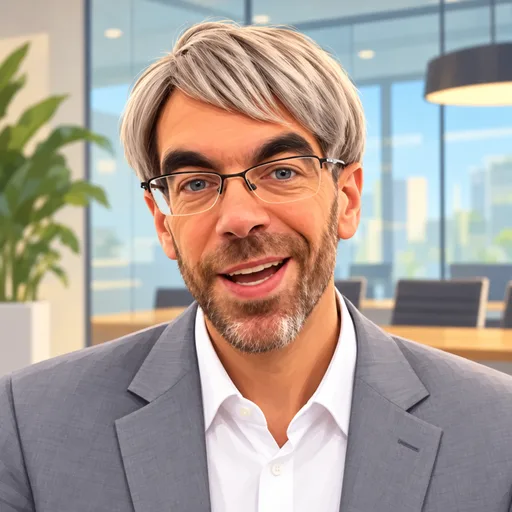
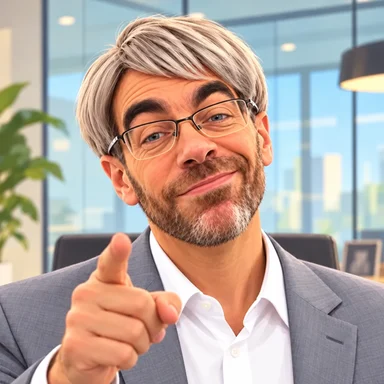
לא זו השאלה (draft): answers as straight flat cards facing the player, red slices pulse with a hand sign + tutorial step + first-red warning, the question always on screen (reactions in their own line), Amir/Ofer repainted as smug managers (tiles, Amir's reject pose, cover, hero, share)

diff --git a/public/techytech-games/not-the-question/game.js b/public/techytech-games/not-the-question/game.js
@@ -128,7 +128,7 @@ function voice(group, opts = {}) {
   if (A.voice) { try { A.voice.stop(); } catch {} A.voice = null; }
   A.voice = play(id, 1.0);
   if (!opts.silentText) say(who, VO_TEXT[id], opts.cls || '');
-  talk(who, (A.buf[id] ? A.buf[id].duration : 1.2) * 1000);
+  talk(who, (A.buf[id] ? A.buf[id].duration : 1.2) * 1000, /^no-/.test(id) ? 'no' : '');
   return id;
 }
 function setSound(on) {
@@ -137,14 +137,20 @@ function setSound(on) {
 }
 
 // ---------------------------------------------------------------- strip + HUD
-function say(who, text, cls = '') {
-  const el = $('#say'); el.className = cls;
+let reactT = 0;
+function say(who, text, cls = '') { // a reaction (Daniel's answer, Amir, Ofer) - its own line under the strip, the question stays
+  const el = $('#react'); el.className = 'on ' + cls;
   el.innerHTML = `<b>${NAMES[who] || ''}:</b> ${text.replace(/</g, '&lt;')}`;
+  $('#stage').classList.add('off'); clearTimeout(reactT);
+  reactT = setTimeout(() => { el.className = ''; $('#stage').classList.remove('off'); }, 2600);
 }
-function talk(who, ms) {
+function ask(who, text) { // the question of the ring Daniel is on - always on screen
+  $('#say').innerHTML = `<b>${NAMES[who] || ''} שואל:</b> ${text.replace(/</g, '&lt;')}`;
+}
+function talk(who, ms, pose) {
   clearTimeout(voiceTimer);
   $('#tAmir').classList.toggle('talk', who === 'amir'); $('#tOfer').classList.toggle('talk', who === 'ofer');
-  $('#tAmir img').src = who === 'amir' ? 'assets/amir-talk.webp' : 'assets/amir.webp';
+  $('#tAmir img').src = who === 'amir' ? (pose === 'no' ? 'assets/amir-no.webp' : 'assets/amir-talk.webp') : 'assets/amir.webp';
   $('#tOfer img').src = who === 'ofer' ? 'assets/ofer-talk.webp' : 'assets/ofer.webp';
   voiceTimer = setTimeout(() => talk('', 0), Math.max(500, ms));
 }
@@ -232,6 +238,51 @@ function labelTex(text, kind) {
   const t = new THREE.CanvasTexture(c); t.colorSpace = THREE.SRGBColorSpace; t.anisotropy = 8; return t;
 }
 
+// ---- answer cards: a flat card on the panel, its words straight and big, always turned to the player
+// (the camera looks down at the rings, so the words are drawn taller to look normal on screen)
+const SIGN_STRETCH = 1.55;
+function drawRed(x, W, H) {
+  x.clearRect(0, 0, W, H); x.textAlign = 'center'; x.textBaseline = 'middle';
+  x.save(); x.translate(W / 2, H / 2); x.scale(1, SIGN_STRETCH * 0.62);
+  x.font = '220px sans-serif'; x.fillText('✋', 0, -80);
+  x.direction = 'rtl'; x.font = '900 120px Rubik, sans-serif'; x.fillStyle = '#ffffff'; x.strokeStyle = '#7a0b0d'; x.lineWidth = 16;
+  x.strokeText('קוטעים', 0, 150); x.fillText('קוטעים', 0, 150); x.restore();
+}
+function signTex(text, kind) {
+  const W = 1024, H = 672, c = document.createElement('canvas'); c.width = W; c.height = H;
+  LABC.width = W; LABC.height = H; const x = LABC.getContext('2d'); x.clearRect(0, 0, W, H);
+  const red = kind === 'no';
+  x.fillStyle = red ? '#e5383b' : '#ffffff'; x.strokeStyle = red ? '#ffffff' : '#16213e'; x.lineWidth = 18;
+  x.beginPath(); x.roundRect(14, 14, W - 28, H - 28, 70); x.fill(); x.stroke();
+  x.direction = 'rtl'; x.textAlign = 'center'; x.textBaseline = 'middle';
+  const words = text.split(' '), maxW = W - 110;
+  const fits = (ls, sz) => { x.font = `900 ${sz}px Rubik, sans-serif`; return ls.every((l) => x.measureText(l).width <= maxW); };
+  let lines = [text], size = 190;
+  while (!fits(lines, size) && size > 130) size -= 4;
+  if (!fits(lines, size) && words.length > 1) {
+    let best = 1, bw = 1e9; x.font = '900 120px Rubik, sans-serif';
+    for (let i = 1; i < words.length; i++) { const w = Math.max(x.measureText(words.slice(0, i).join(' ')).width, x.measureText(words.slice(i).join(' ')).width); if (w < bw) { bw = w; best = i; } }
+    lines = [words.slice(0, best).join(' '), words.slice(best).join(' ')]; size = 150;
+  }
+  while (!fits(lines, size) && size > 60) size -= 4;
+  x.font = `900 ${size}px Rubik, sans-serif`; x.fillStyle = red ? '#ffffff' : '#16213e';
+  x.save(); x.translate(W / 2, H / 2); x.scale(1, SIGN_STRETCH * 0.62);
+  lines.forEach((l, i) => x.fillText(l, 0, (i - (lines.length - 1) / 2) * size * 1.08));
+  x.restore();
+  c.getContext('2d').drawImage(LABC, 0, 0);
+  const t = new THREE.CanvasTexture(c); t.colorSpace = THREE.SRGBColorSpace; t.anisotropy = 8; return t;
+}
+const RED_TEX = (() => {
+  const c = document.createElement('canvas'); c.width = 512; c.height = 420; drawRed(c.getContext('2d'), 512, 420);
+  const t = new THREE.CanvasTexture(c); t.colorSpace = THREE.SRGBColorSpace; return t;
+})();
+document.fonts && document.fonts.load('900 120px Rubik').then(() => { drawRed(RED_TEX.image.getContext('2d'), 512, 420); RED_TEX.needsUpdate = true; });
+function sign(group, a, w, h, tex) {
+  const pivot = new THREE.Object3D(); pivot.position.set(1.9 * Math.sin(a), 0.112, 1.9 * Math.cos(a)); group.add(pivot); pivot.userData.a = a;
+  const m = new THREE.Mesh(new THREE.PlaneGeometry(w, h), new THREE.MeshBasicMaterial({ map: tex, transparent: true, depthWrite: false }));
+  m.rotation.x = -Math.PI / 2; pivot.add(m); return m;
+}
+
 // Daniel - a real glossy ball, his painted face in a round video-call window on its front
 const ball = new THREE.Group(); scene.add(ball);
 const ballCanvas = Object.assign(document.createElement('canvas'), { width: 1024, height: 512 });
@@ -295,7 +346,7 @@ function layout(i, arrive) {
   const st = stageOf(i), r = G.rand;
   const q = G.tutRing && i === 0 ? TUT_Q : questionFor(i);
   const nClear = G.tutRing && i === 0 ? 1 : st === 0 ? 1 : 2;
-  const nRed = G.tutRing && i === 0 ? 0 : i < 3 ? 0 : st === 0 ? 1 : st === 1 ? 1 + (r() < 0.5 ? 1 : 0) : st === 2 ? 2 : 2 + (r() < 0.4 ? 1 : 0);
+  const nRed = G.tutRing && i === 0 ? 1 : i < 3 ? 0 : st === 0 ? 1 : st === 1 ? 1 + (r() < 0.5 ? 1 : 0) : st === 2 ? 2 : 2 + (r() < 0.4 ? 1 : 0);
   const slots = new Array(SLICES).fill(null).map(() => ({ kind: 'plain', panel: -1 }));
   const reserved = new Set([arrive, (arrive + 1) % SLICES, (arrive + SLICES - 1) % SLICES]);
   const free = (k, n) => { for (let j = 0; j < n; j++) { const s = (k + j) % SLICES; if (reserved.has(s) || slots[s].kind !== 'plain') return false; } return true; };
@@ -318,18 +369,19 @@ function buildRing(i, arrive) {
   const L = layout(i, arrive);
   const group = new THREE.Group(); group.position.y = -i * GAP; tower.add(group);
   const pal = PALETTES[stageOf(i) % PALETTES.length];
-  const ring = { i, group, q: L.q, slots: L.slots, panels: L.panels, meshes: new Array(SLICES).fill(null), passed: false, asked: false };
+  const ring = { i, group, q: L.q, slots: L.slots, panels: L.panels, meshes: new Array(SLICES).fill(null), signs: [], passed: false, asked: false };
   for (let k = 0; k < SLICES; k++) {
     const sl = L.slots[k];
     if (sl.panel >= 0) continue;
     const mat = sl.kind === 'red' ? MAT.red : plainMat(pal[k % 2]);
     const m = new THREE.Mesh(sliceGeo(k * SA + 0.004, (k + 1) * SA - 0.004), mat); group.add(m); ring.meshes[k] = m;
+    if (sl.kind === 'red') ring.signs.push(sign(group, (k + 0.5) * SA, 0.9, 0.75, RED_TEX).parent);
   }
   L.panels.forEach((p) => {
     const a0 = p.s0 * SA + 0.006, a1 = (p.s0 + p.n) * SA - 0.006;
     const m = new THREE.Mesh(sliceGeo(a0, a1), MAT.panel.clone()); group.add(m);
-    const lab = new THREE.Mesh(labelGeo(a0 + 0.04, a1 - 0.04), new THREE.MeshBasicMaterial({ map: labelTex(p.text, ''), transparent: true, depthWrite: false, side: THREE.DoubleSide }));
-    group.add(lab); p.mesh = m; p.label = lab;
+    const lab = sign(group, (p.s0 + p.n / 2) * SA, 1.78, 1.18, signTex(p.text, '')); ring.signs.push(lab.parent);
+    p.mesh = m; p.label = lab;
     for (let j = 0; j < p.n; j++) ring.meshes[(p.s0 + j) % SLICES] = m;
   });
   G.rings[i] = ring;
@@ -351,7 +403,7 @@ function ensureRings() {
   // drop rings far above
   G.rings.forEach((r, i) => { if (r && i < G.ringAt - 2) { tower.remove(r.group); disposeGroup(r.group); G.rings[i] = null; } });
 }
-function disposeGroup(g) { g.traverse((o) => { if (o.geometry) o.geometry.dispose(); if (o.material && o.material.map) o.material.map.dispose(); }); }
+function disposeGroup(g) { g.traverse((o) => { if (o.geometry) o.geometry.dispose(); if (o.material && o.material.map && o.material.map !== RED_TEX) o.material.map.dispose(); }); }
 
 // ---------------------------------------------------------------- the round
 function resetWorld(tutorial) {
@@ -371,8 +423,10 @@ function resetWorld(tutorial) {
 }
 function askRing(i) {
   const r = G.rings[i]; if (!r || r.asked) return; r.asked = true; G.lastAsked = i;
-  say(r.q.who, r.q.q.replace(/^דניאל: /, ''), '');
+  if (r.q.who === 'daniel') ask('amir', 'אז מה אתה מציע?'); else ask(r.q.who, r.q.q);
+  if (r.q.who === 'daniel') say('daniel', r.q.q.replace(/^דניאל: /, ''), '');
   talk(r.q.who === 'daniel' ? '' : r.q.who, 1800);
+  if (!G.tut && !G.redWarned && r.slots.some((x) => x.kind === 'red')) { G.redWarned = true; chip('✋ אדום = קוטעים אותך. אל תנחתו עליו!', 3800); }
   const st = stageOf(i);
   $('#stageT').textContent = `שלב ${st + 1}: ${stageName(st)} · שאלה ${(i % RING_PER_STAGE) + 1}/${RING_PER_STAGE}`;
 }
@@ -410,12 +464,14 @@ function strike(kind, ring, panel) {
   if (panel) flashPanel(panel);
   if (G.strikes >= 3) setTimeout(gameOver, 900);
 }
-function flashPanel(p) { p.mesh.material.color.set(0xe5383b); p.label.material.map.dispose(); p.label.material.map = labelTex(p.text, 'no'); p.label.material.needsUpdate = true; G.flash.push({ p, t: 0.5 }); }
+function flashPanel(p) { p.mesh.material.color.set(0xe5383b); p.label.material.map.dispose(); p.label.material.map = signTex(p.text, 'no'); p.label.material.needsUpdate = true; G.flash.push({ p, t: 0.5 }); }
 
 function passRing(ring, how) {
   ring.passed = true;
   // break it: every slice flies out
+  ring.signs = [];
   ring.group.children.slice().forEach((m) => {
+    if (!m.geometry) { ring.group.remove(m); m.traverse((o) => { if (o.geometry) o.geometry.dispose(); if (o.material && o.material.map && o.material.map !== RED_TEX) o.material.map.dispose(); }); return; } // a card holder: just gone
     const wp = new THREE.Vector3(); m.getWorldPosition(wp);
     tower.remove(m); ring.group.remove(m); m.position.copy(wp); m.rotation.y = G.rot; scene.add(m);
     if (m.material && m.material.transparent === false) { m.material = m.material.clone(); m.material.transparent = true; }
@@ -516,6 +572,8 @@ function frame(t) {
     if (p.t <= 0) { scene.remove(p.m); if (p.m.geometry) p.m.geometry.dispose(); return false; } return true; });
   G.flash = G.flash.filter((f) => { f.t -= dt; if (f.m) f.m.material.emissiveIntensity = f.t > 0 ? 0.4 + Math.sin(t / 40) * 0.6 + 0.6 : 0.4; return f.t > 0; });
   pole.position.y = (G.camY || 0) - 100;
+  G.rings.forEach((r) => { if (r) r.signs.forEach((sg) => { sg.rotation.y = -tower.rotation.y; const f = Math.cos(sg.userData.a + tower.rotation.y); sg.children[0].material.opacity = Math.max(0, Math.min(1, (f + 0.45) * 2.2)); }); });
+  MAT.red.emissiveIntensity = 0.45 + Math.sin(t / 160) * 0.35;
   if (!$('#tut').hidden && TSTEP) placeSpot();
   renderer.render(scene, camera);
 }
@@ -604,8 +662,9 @@ const STEPS = [
   { t: 'השאלה של הטבעת שעליה אתם עומדים מופיעה כאן.', spot: '#strip' },
   { t: '<b>גררו</b> ימינה ושמאלה כדי לסובב את המגדל.', spot: null, try: 'rotate' },
   { t: 'על הטבעת יש תשובות. התשובה <b>הברורה והנכונה</b>? «זאת לא השאלה» - פסילה.', spot: 'clear' },
+  { t: '✋ <b>אדום = קוטעים אותך. אסור לנחות עליו!</b> נחיתה על אדום = פסילה.', spot: 'red' },
   { t: 'סובבו את התשובה <b>המעורפלת</b> אל מתחת לדניאל - והוא ירד לשאלה הבאה.', spot: 'vague', try: 'pass' },
-  { t: 'פרוסה <b>אדומה</b> = קטעו אתכם. <b>3 פסילות</b> ומורידים אתכם מהפגישה.', spot: '#strikes' },
+  { t: 'כאן הפסילות: תשובה ברורה או אדום. <b>3 פסילות</b> ומורידים אתכם מהפגישה.', spot: '#strikes' },
   { t: 'שלוש תשובות מעורפלות ברצף = <b>מומנטום</b>: פורצים דרך הטבעת הבאה, מה שלא יהיה עליה.', spot: null },
   { t: 'מוכנים? הפגישה מתחילה.', spot: null, last: true },
 ];
@@ -625,9 +684,13 @@ function showStep() {
 }
 function spotRect() {
   const s = TSTEP && TSTEP.spot; if (!s) return null;
-  if (s === 'ball' || s === 'clear' || s === 'vague') {
+  if (s === 'ball' || s === 'clear' || s === 'vague' || s === 'red') {
     let p;
     if (s === 'ball') p = ball.position.clone();
+    else if (s === 'red') {
+      const r = G.rings[0], k = r ? r.slots.findIndex((x) => x.kind === 'red') : -1; if (k < 0) return null;
+      const a = (k + 0.5) * SA + tower.rotation.y; p = new THREE.Vector3(BALL_Z * Math.sin(a), -r.i * GAP, BALL_Z * Math.cos(a));
+    }
     else {
       const r = G.rings[0]; const pn = r && r.panels.find((x) => x.kind === s); if (!pn) return null;
       const a = (pn.s0 + 1) * SA + tower.rotation.y; p = new THREE.Vector3(BALL_Z * Math.sin(a), -r.i * GAP, BALL_Z * Math.cos(a));

diff --git a/public/techytech-games/not-the-question/index.html b/public/techytech-games/not-the-question/index.html
@@ -11,7 +11,7 @@
 <meta property="og:title" content="לא זו השאלה – טקי-טק">
 <meta property="og:description" content="כל תשובה ברורה מקבלת «זאת לא השאלה». כמה עמוק תגיעו לפרטים?">
 <meta property="og:url" content="https://shlomiverse.com/techytech-games/not-the-question/">
-<meta property="og:image" content="https://shlomiverse.com/techytech-games/not-the-question/assets/share.jpg?v=1">
+<meta property="og:image" content="https://shlomiverse.com/techytech-games/not-the-question/assets/share.jpg?v=2">
 <meta property="og:image:width" content="1200">
 <meta property="og:image:height" content="630">
 <meta name="twitter:card" content="summary_large_image">
@@ -25,9 +25,9 @@
 :root{
   --ink:#16213e; --blue:#2d6cf0; --blueD:#1b46b0; --green:#16a873; --greenD:#0d7a52; --red:#e5383b; --yellow:#ffc531; --purple:#7a4ce0;
   --safe-t:calc(env(safe-area-inset-top,0px) + var(--verse-top,0px)); --safe-b:env(safe-area-inset-bottom,0px);
-  --stripH:64px; --sw:100vw;
+  --stripH:74px; --sw:100vw;
 }
-@media (max-height:600px){:root{--stripH:56px}}
+@media (max-height:600px){:root{--stripH:66px}}
 *{box-sizing:border-box;-webkit-tap-highlight-color:transparent;user-select:none;-webkit-user-select:none}
 html,body{margin:0;height:100%;overflow:hidden;font-family:Rubik,system-ui,sans-serif;color:var(--ink);overscroll-behavior:none;touch-action:none}
 body{background:#2a3b66 url(assets/bg.jpg) center/cover no-repeat;position:relative}
@@ -48,11 +48,17 @@ a{color:inherit}
 .tile img{width:100%;height:100%;object-fit:cover;display:block}
 .tile.talk{outline-color:var(--yellow)}
 .tile i{position:absolute;bottom:0;left:0;right:0;font-style:normal;font-size:10px;font-weight:700;text-align:center;background:#0009;line-height:14px}
-#say{flex:1;min-width:0;font-size:clamp(13px,3.7vw,16px);font-weight:700;line-height:1.25;display:-webkit-box;-webkit-line-clamp:2;-webkit-box-orient:vertical;overflow:hidden}
-#say b{color:var(--yellow);font-weight:900}
-#say.no{color:#ff8a8a}
-#say.no b{color:#ff5a5a}
-#say.yes b{color:#6ee7a8}
+#say{flex:1;min-width:0;font-size:clamp(14px,4vw,17px);font-weight:900;line-height:1.22;display:-webkit-box;-webkit-line-clamp:3;-webkit-box-orient:vertical;overflow:hidden}
+#say b{display:block;color:var(--yellow);font-weight:700;font-size:12px}
+#react{position:absolute;top:calc(var(--safe-t) + var(--stripH) + 62px);left:0;right:0;margin:0 auto;width:fit-content;max-width:92%;background:#fff;color:var(--ink);border-radius:14px;padding:6px 14px;font-weight:700;font-size:clamp(13px,3.7vw,15px);text-align:center;box-shadow:0 4px 12px #0005;z-index:6;pointer-events:none;opacity:0;transform:translateY(-6px);transition:opacity .2s,transform .2s}
+#react.on{opacity:1;transform:none}
+#react b{color:var(--blueD)}
+#react.no{background:#e5383b;color:#fff}
+#react.no b{color:#ffe0e0}
+#react.yes{background:#16a873;color:#fff}
+#react.yes b{color:#dfffee}
+#stage.off{opacity:0}
+#stage{transition:opacity .2s}
 #hud{position:absolute;top:calc(var(--safe-t) + var(--stripH) + 12px);left:10px;right:10px;display:flex;justify-content:space-between;align-items:flex-start;z-index:4;pointer-events:none}
 #depth{background:#ffffffee;border-radius:14px;padding:4px 12px 5px;text-align:center;box-shadow:0 4px 10px #0004;min-width:64px}
 #depth small{display:block;font-size:11px;font-weight:700;color:#556}
@@ -140,6 +146,7 @@ a{color:inherit}
     <button id="pauseB" aria-label="עצירה">II</button>
   </div>
 </div>
+<div id="react"></div>
 <div id="stage" hidden><span id="stageT"></span></div>
 <div id="chip" class="off"></div>
 <div id="pop"></div>

diff --git a/scripts/techytech-games/not-the-question/tools/t1-play.js b/scripts/techytech-games/not-the-question/tools/t1-play.js
@@ -35,7 +35,7 @@ const wait = (ms) => new Promise((r) => setTimeout(r, ms));
     const tryStep = await p.evaluate(() => document.getElementById('tcard').classList.contains('try'));
     console.log('step', s.step + 1, tryStep ? '(try)' : '', txt.slice(0, 60));
     if (tryStep && s.step === 3) { await drag(160); await drag(-160); await p.waitForTimeout(1300); continue; }
-    if (tryStep && s.step === 5) {
+    if (tryStep && s.step === 6) {
       const r = await p.evaluate(() => NTQ.ring(0)); const v = r.panels.find((x) => x.kind === 'vague');
       await turnTo(v.s0); await p.waitForTimeout(2200); continue;
     }
